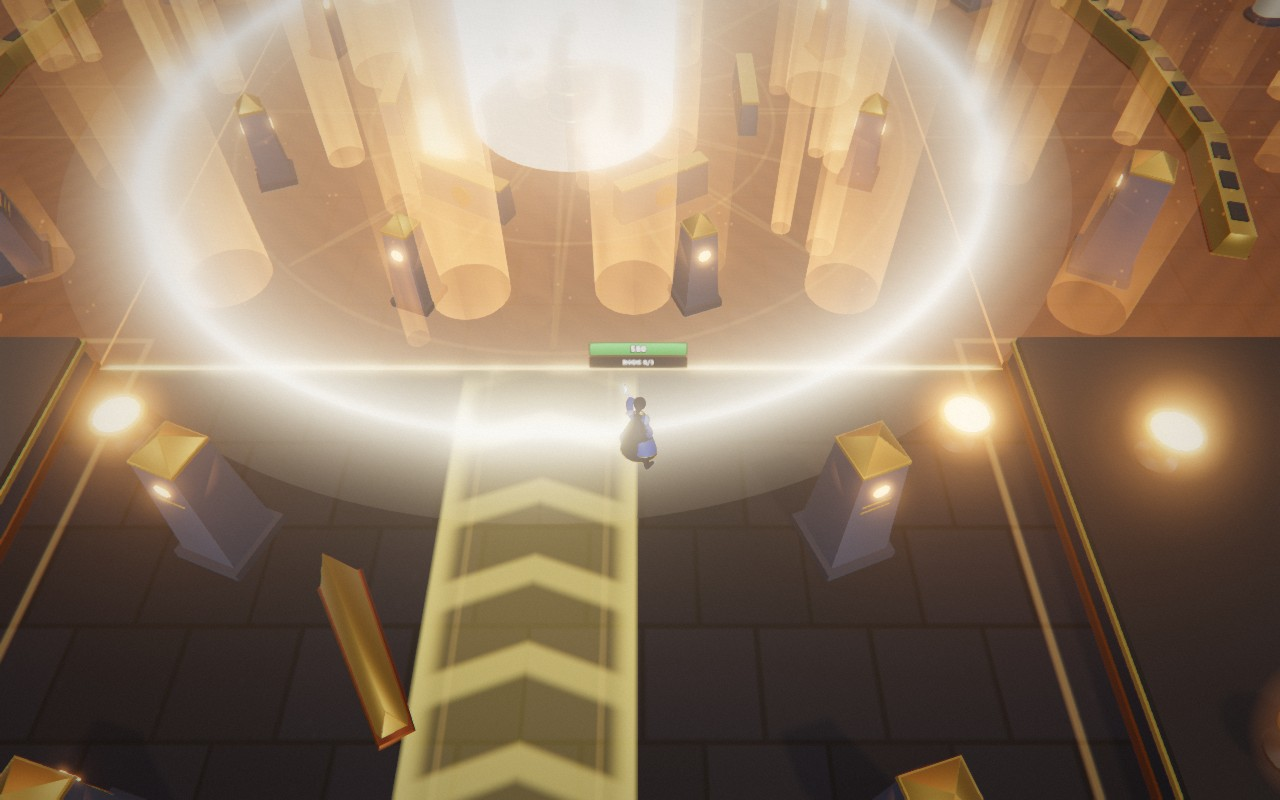
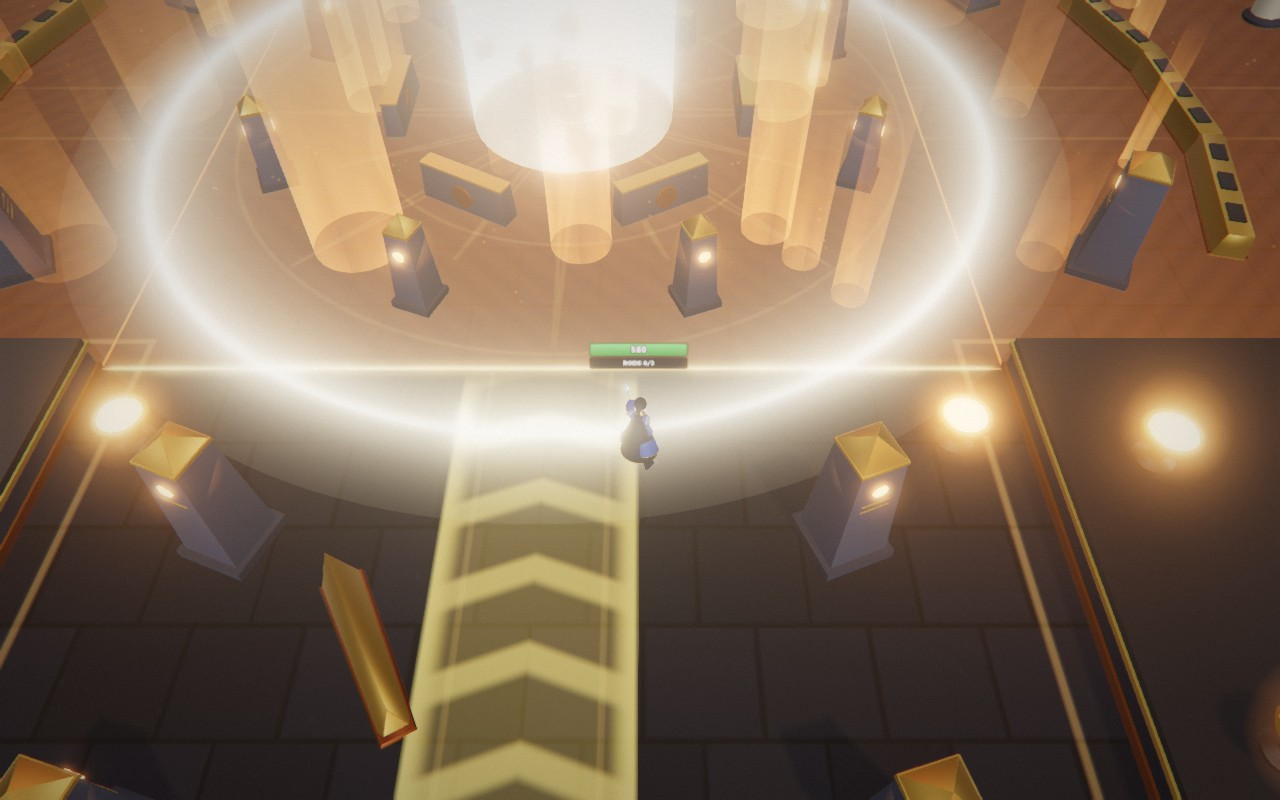
Raid: The Hour Strikes draws less, and his aim reaches the gate's passage
Late in the count at most about 45 tongues of flame and 300 embers at once (it was 140 and more than the pool holds), and
42 columns at the bell instead of 64. A hero standing in the gate's passage is aimed at down its middle: pulled back into
the nave, Pillar Fall and Fists could not reach it. One more row in the rule check (133); pictures retaken.

diff --git a/src/raid/sunWarden.ts b/src/raid/sunWarden.ts
@@ -574,12 +574,13 @@ const strikes: BossMove = {
           road.set(mouth.x, mouth.z, hall.dir, (hall.reach - W - 1) * (1 - (1 - lit) ** 2), 5, (0.5 + 0.35 * k) * fade, time);
           sill.set(sa, sb, p.camera, time, (0.55 + 0.25 * Math.sin(time * 5)) * fade, 1.1, true);
           if (off >= 0 || t >= at) return;
-          // Sunfire: embers rising all over what burns, more and higher as the bell nears, and tongues of flame in the last third.
-          for (let n = Math.random() < dt * (60 + 240 * k * k) ? 2 + Math.floor(k * 4) : 0; n > 0; n--) {
+          // Sunfire: embers rising all over what burns, more and higher as the bell nears, and tongues of flame from a third of the way
+          // on. Kept to what a phone can draw: at most about 300 embers and 45 tongues at once (a tongue is a draw call of its own).
+          for (let n = Math.random() < dt * (60 + 240 * k * k) ? 1 + Math.floor(k * 1.5) : 0; n > 0; n--) {
             const s = inFire();
-            p.show.burst(s.x, 0.1, s.z, 3, 0.8, 1.6 + 3.5 * k, 0.9 + 0.6 * k, SUNFIRE, 0.5);
+            p.show.burst(s.x, 0.1, s.z, 2, 0.8, 1.6 + 3.5 * k, 0.9 + 0.4 * k, SUNFIRE, 0.5);
           }
-          for (let n = k > 0.35 && Math.random() < dt * 90 * (k - 0.35) ? 1 + Math.floor(k * 3) : 0; n > 0; n--) {
+          if (k > 0.35 && Math.random() < dt * 55 * ((k - 0.35) / 0.65)) {
             const s = inFire();
             p.show.column(s.x, s.z, { radius: 0.3 + Math.random() * 0.45, height: 1.5 + (2.5 + Math.random() * 4.5) * k, life: 0.8, color: SUNFIRE, peak: 0.35 + 0.4 * k });
           }
@@ -606,12 +607,12 @@ const strikes: BossMove = {
           p.show.burst(C.x, 9, C.z, 120, 12, 4, 1.4, 0xffd890, 4);
           // Many thin columns of different heights, a little off their rows, read as fire; a few wide ones as glass tubes.
           const flame = (x: number, z: number, delay: number) => p.show.column(x + (Math.random() - 0.5) * 3, z + (Math.random() - 0.5) * 3, {
-            radius: 0.8 + Math.random() * 1.1, height: 9 + Math.random() * 13, life: 1 + Math.random() * 0.6, color: SUNFIRE, peak: 0.85, delay,
+            radius: 1 + Math.random() * 1.3, height: 9 + Math.random() * 13, life: 1 + Math.random() * 0.6, color: SUNFIRE, peak: 0.85, delay,
           });
-          for (const across of [-9, -3, 3, 9]) {
-            for (const along of [-9, -3, 3, 9]) flame(C.x + Math.sin(hall.dir) * along + Math.cos(hall.dir) * across, C.z + Math.cos(hall.dir) * along - Math.sin(hall.dir) * across, 0.04);
+          for (const across of [-8, 0, 8]) {
+            for (const along of [-8, 0, 8]) flame(C.x + Math.sin(hall.dir) * along + Math.cos(hall.dir) * across, C.z + Math.cos(hall.dir) * along - Math.sin(hall.dir) * across, 0.04);
             for (const { a, i } of burning) {
-              for (let along = W + 3; along < a.reach - 1; along += 6) {
+              for (let along = W + 3; along < a.reach - 1; along += 7) {
                 const s = armSpot(i, along);
                 flame(s.x + Math.cos(a.dir) * across, s.z - Math.sin(a.dir) * across, 0.08 + (along - W) * 0.014);
               }

diff --git a/src/arenas/sunhall.ts b/src/arenas/sunhall.ts
@@ -60,6 +60,9 @@ export function inHall(x: number, z: number, pad = 0) {
 export function intoHall(x: number, z: number, pad = 0) {
   if (inHall(x, z, pad)) return { x, z };
   const dx = x - RING.x, dz = z - RING.z, clamp = (v: number, a: number, b: number) => Math.max(a, Math.min(b, v));
+  // The gate's passage is narrower than any `pad`: its middle, as far in as the spot is. (Pulled back into the nave, what he aims
+  // would never reach a hero standing in the passage.)
+  if (Math.abs(dx) <= GATE && dz > SOUTH - pad && dz <= SOUTH + 8) return { x: RING.x, z };
   // The cross is two bars: the nearer of the nearest spots in each.
   const a = { x: clamp(dx, -(W - pad), W - pad), z: clamp(dz, -(NORTH - pad), SOUTH - pad) };
   const b = { x: clamp(dx, -(EAST - pad), EAST - pad), z: clamp(dz, -(W - pad), W - pad) };

diff --git a/pipeline/tools/raid-check.js b/pipeline/tools/raid-check.js
@@ -1057,6 +1057,8 @@
         // What he aims stays on the hall's floor; his floor-wide moves do not fill its arms.
         const aimed = def.moves.pillars.aim({ boss: { x: 0, z: 30 }, ring: { x: 0, z: 30 }, target: { x: 12.4, z: 40 }, step: 0, seed: 1 });
         check('the hall: a stone aimed at a hero by the wall lands clear of it (x)', aimed.x, 13 - 1.8, 0.001);
+        const gateAim = def.moves.pillars.aim({ boss: { x: 0, z: 30 }, ring: { x: 0, z: 30 }, target: { x: 1.5, z: 52 }, step: 0, seed: 1 });
+        yes('the hall: a hero in the gate\'s passage is still aimed at, down its middle', gateAim.x === 0 && gateAim.z === 52);
         hall(0, 3);
         place(0, 40);
         check('the hall: Sun Order does not reach down the nave', take(() => cast('order', { x: 0, z: 3 }), 5.6), 0);

diff --git a/docs/architecture/raid.md b/docs/architecture/raid.md
@@ -270,7 +270,7 @@ all behind `party` in `src/raid/sunWarden.ts`, so the fight for two reads none o
 |---|---|
 | The Hour Strikes | Only here, in every phase (`HALL_PHASES`). Below |
 | Enrage | 3:15 instead of 2:30: the party walks 40 m up the nave to him first, and each hour takes the fight away from him for a while |
-| What he aims (Pillar Fall, Fists, the ray) | Kept 1.8 m inside the hall's walls (`intoHall`), so no stone lands in the stone |
+| What he aims (Pillar Fall, Fists, the ray) | Kept 1.8 m inside the hall's walls (`intoHall`), so no stone lands in the stone. At a hero in the gate's passage: down its middle |
 | Sun Order | Its wedges reach 19 m from the Sun Well (the crossing and its corners), not the whole floor: deep in an arm no edge of a wedge is near enough to step over |
 | Eclipse | Its far ring ends 20 m from him instead of at the rim |
 | Gathering Noon, the Long Hour's blow, Walking Sun, the late sunfire | The whole hall, as in the court. The stone round the hall hides what is drawn past its walls |
@@ -474,8 +474,9 @@ it, casting does), and it gets up with half its HP. Twice a fight per hero. Both
 ## Limits
 
 - **The Hall of Noon was fought only by one autopilot hero at a time** (`_raid(..., { band: 5 })`), never by a party of people or of
-  bots through the hub. What forty heroes do to The Hour Strikes (a crowd in one arm's mouth), and its cost on a phone (about sixty
-  columns at the bell), were not measured.
+  bots through the hub. What forty heroes do to The Hour Strikes (a crowd in one arm's mouth) was not seen. Its cost on a phone was
+  not measured, only counted: late in the count about 45 tongues of flame and 300 embers at once, and 42 columns more for under a
+  second at the bell; each tongue and column is a draw call of its own.
 - **The Warden's mechanics are not scaled to the band.** Noon still asks for two shards and Anchors for two circles, whatever the
   party's size; only his HP and gauge grow.
 - **The autopilot fights worse in the hall than in the court:** 9 clears of 40 against 8 of 20 for the same ten heroes, and its
